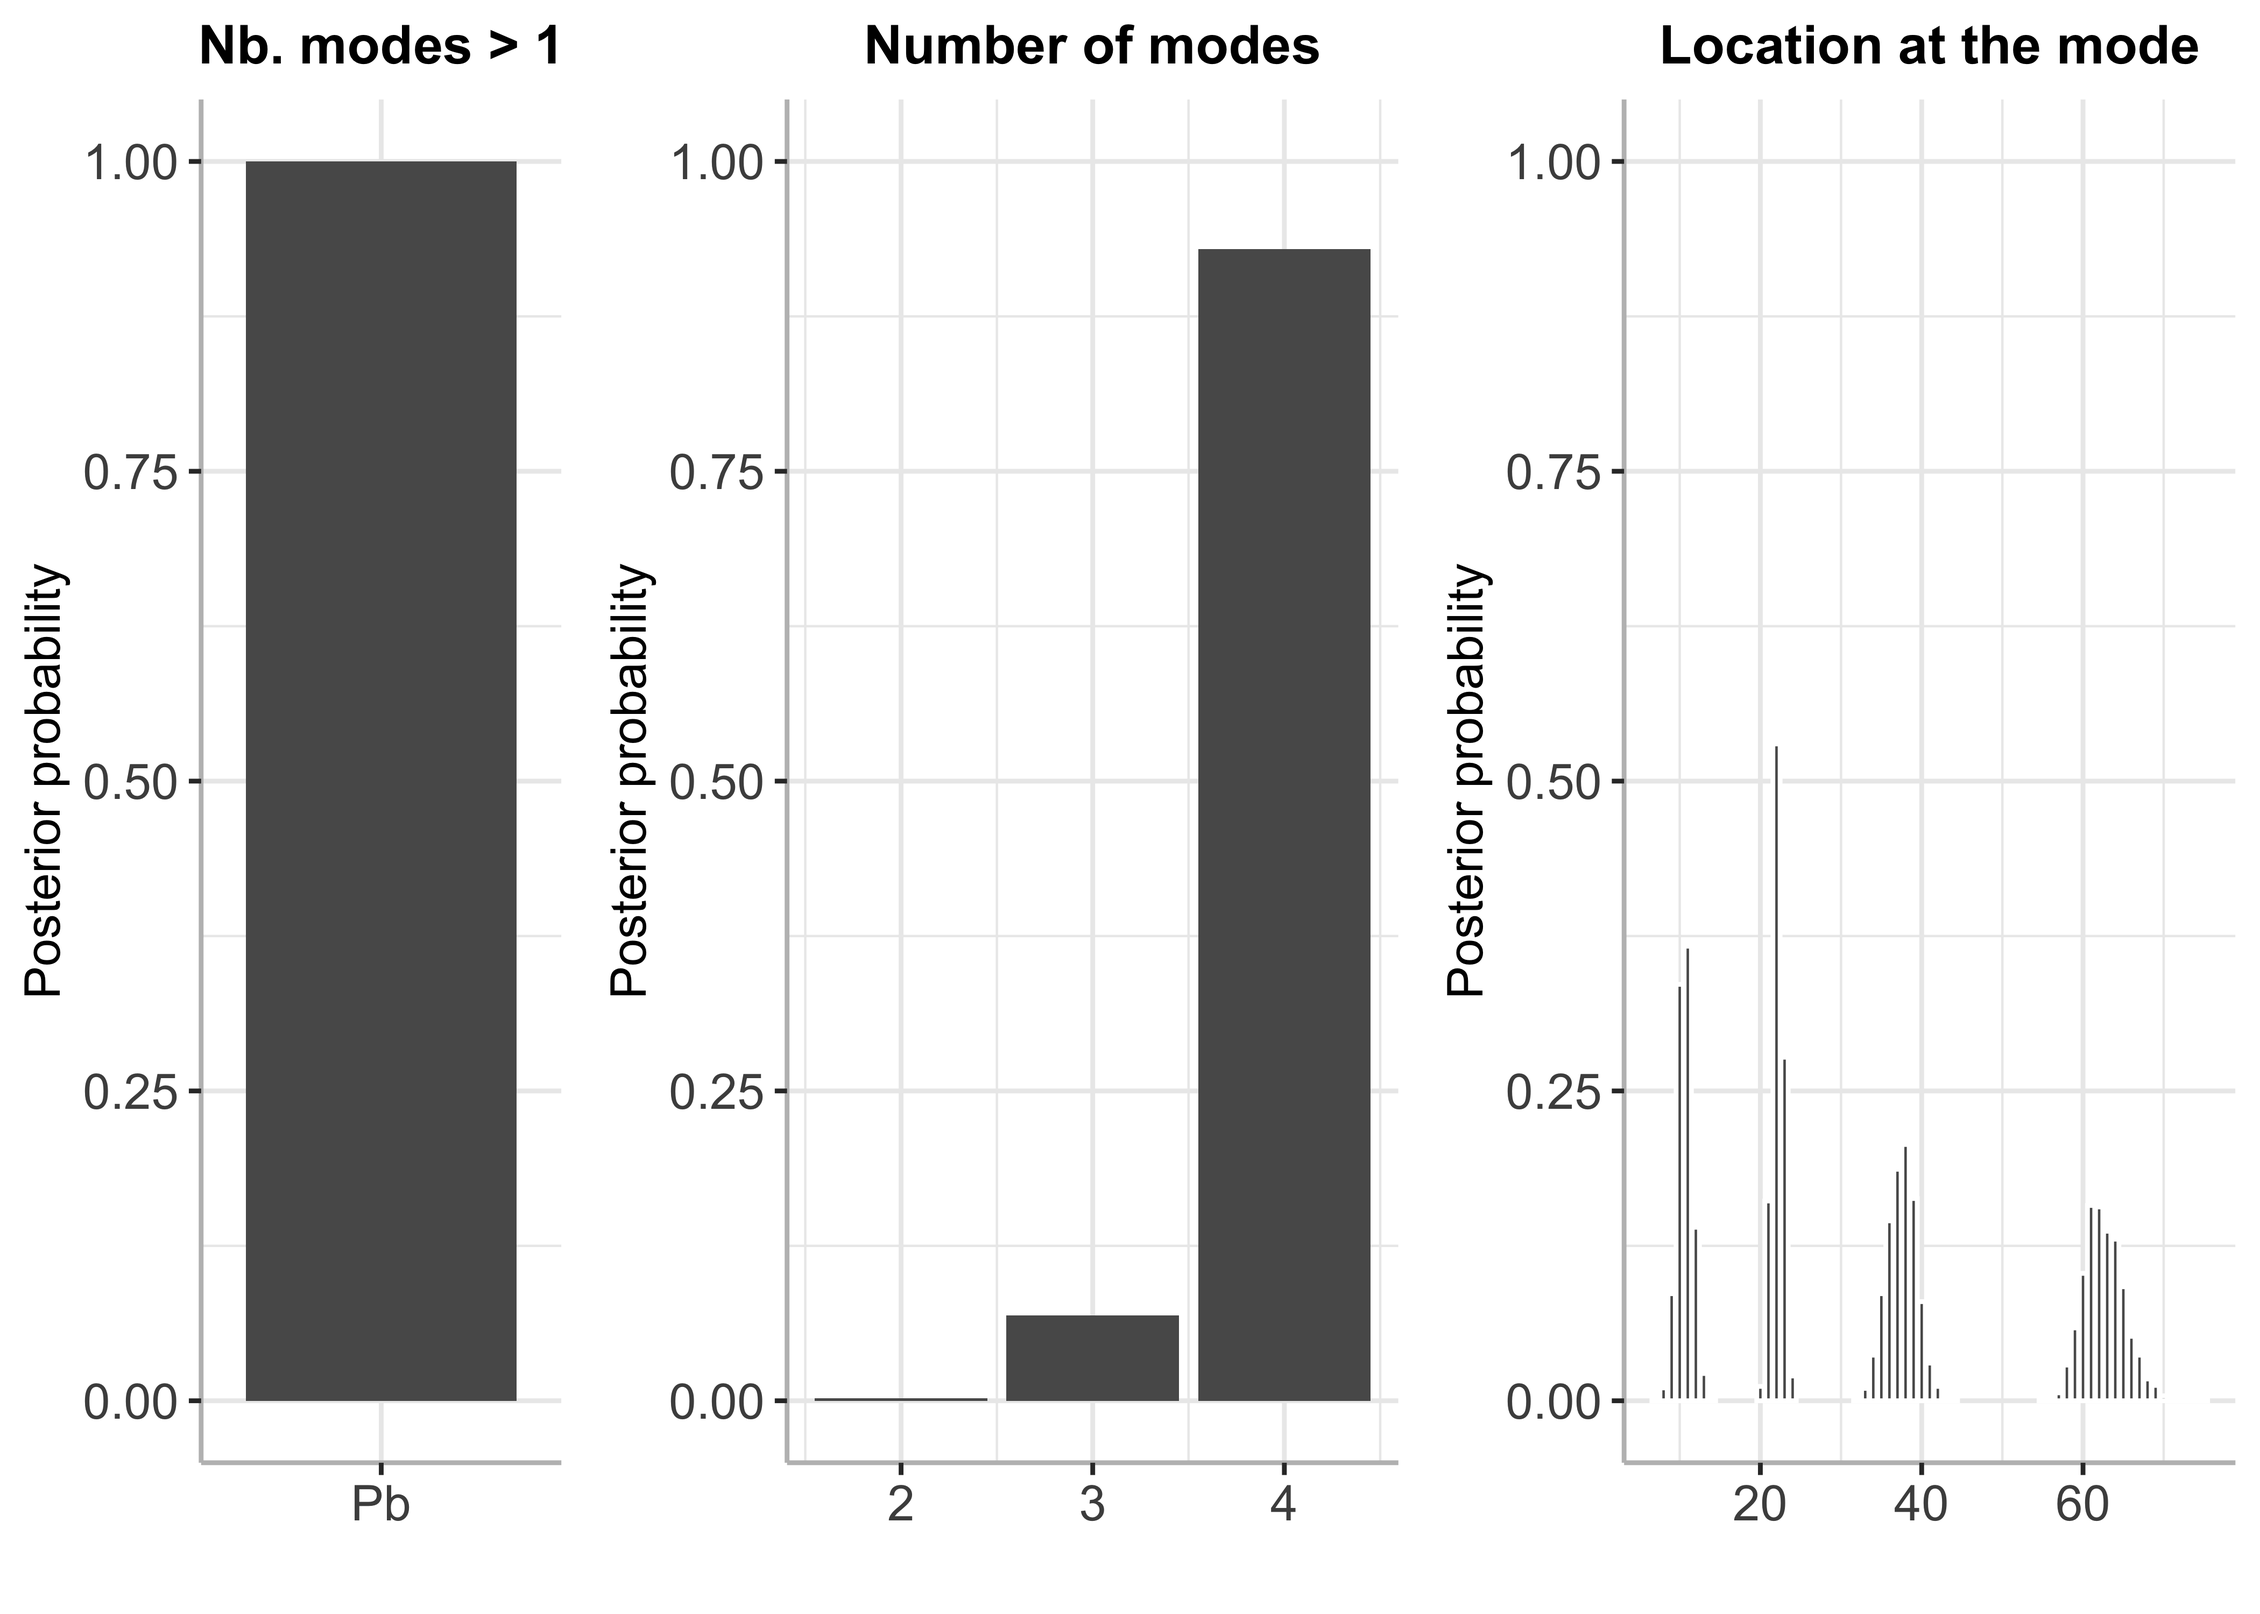
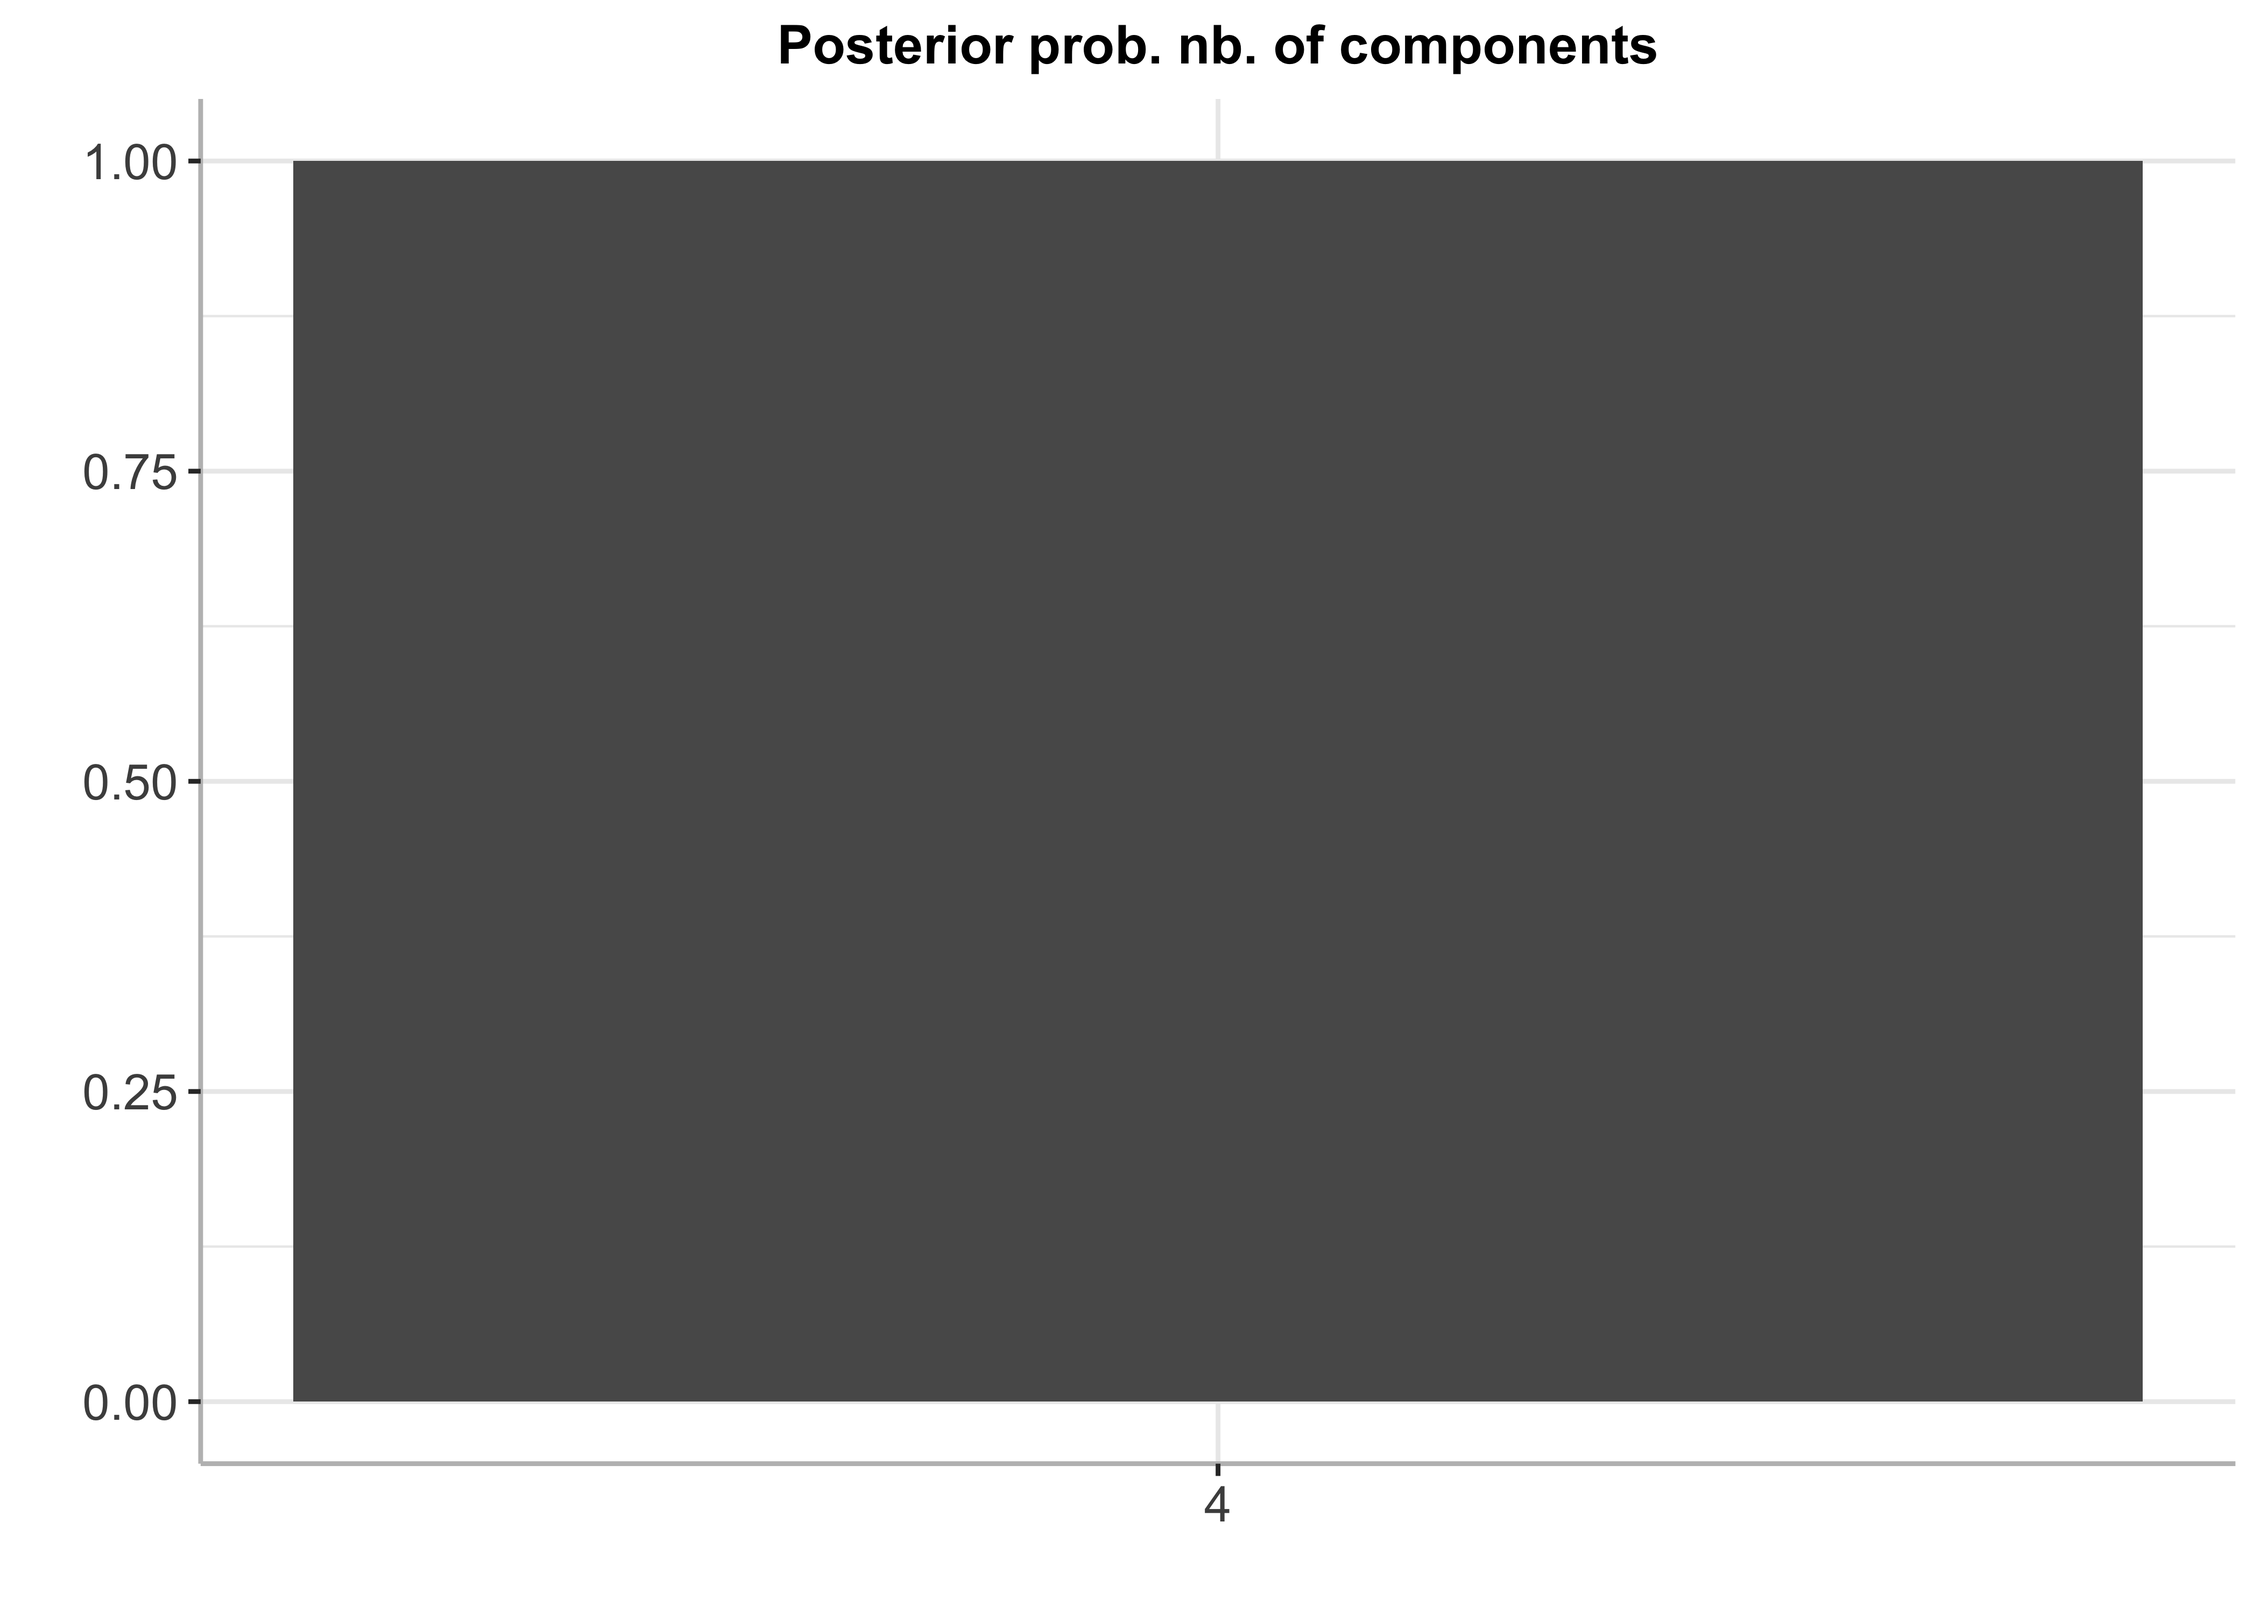
fix dscription and graphs

diff --git a/README.md b/README.md
@@ -1,25 +1,37 @@
 BayesMultiMode
 ================
 
-An R package for testing the number of modes and their locations in
-mixture distributions using Bayesian methods. The number of components
-in the mixture is unknown a priori and estimated using Sparse Finite
-Mixture (SFM) techniques in the MCMC algorithm.
+This package provides functions for estimating the number of modes and
+their associated locations in mixtures of discrete distributions using
+Bayesian methods. The testing approach works in three stages. First, a
+mixture distribution is estimated on the data using MCMC methods. The
+number of mixture components is allowed to be unknown a priori and
+estimated using a Spare Finite Mixture (SFM) algorithm. Second, a simple
+post-processing is applied to the MCMC output where a given number of
+iterations are used for burn-in and empty components are discarded.
+Third, post-processed MCMC draws are used to compute the number of modes
+as well as their locations and posterior probabilities.
 
-### Installing the development version of BayesMultiMode
+Currently the package supports a flexible mixture of shifted poisson
+distributions. The shifted poisson augments the poisson distribution
+with a location parameter. More mixtures of discrete and continuous
+distributions are in the pipeline.
+
+#### Installing BayesMultiMode
 
 ``` r
-# install.packages("devtools") #if not on the machine already
-# library(devtools)
+# Installing from github :
+# install.packages("devtools") # if devtools is not installed 
+devtools::install_github("paullabonne/BayesMultiMode")
+```
 
-# Installing from github
-# devtools::install_github("paullabonne/BayesMultiMode")
+#### Loading the package
 
-# Loading the package
+``` r
 library(BayesMultiMode)
 ```
 
-### Generating data
+#### Generating data
 
 ``` r
 set.seed(1)
@@ -33,7 +45,7 @@ length_data = 70
 simulated_data <- c(rpois(length_data*p1, lam1)+kap1, rpois(length_data*p2, lam2)+kap2)
 ```
 
-### Choosing either simulated or DNA data
+#### Choosing either simulated or DNA data
 
 ``` r
 # Select DNA data :
@@ -44,7 +56,7 @@ y = d4z4
 # y = simulated_data
 ```
 
-### Setting parameters for MCMC
+#### Setting parameters for SFM MCMC estimation
 
 ``` r
 # Number of MCMC iterations 
@@ -57,7 +69,7 @@ S = 0.5
 Jmax = 6
 ```
 
-### Estimation with SFM MCMC
+#### Estimation with SFM MCMC
 
 ``` r
 #Bayesian estimation
@@ -81,24 +93,27 @@ graphs = plots_mcmc(sfm_mcmc,S)
 graphs[[3]]
 ```
 
-<img src="README_files/figure-gfm/unnamed-chunk-5-1.png" width="70%" style="display: block; margin: auto;" />
+<img src="README_files/figure-gfm/unnamed-chunk-6-1.png" width="70%" style="display: block; margin: auto;" />
 
 ``` r
 graphs[[4]]
 ```
 
-<img src="README_files/figure-gfm/unnamed-chunk-5-2.png" width="70%" style="display: block; margin: auto;" />
+    ## Warning: Removed 41 rows containing missing values (position_stack).
+
+<img src="README_files/figure-gfm/unnamed-chunk-6-2.png" width="70%" style="display: block; margin: auto;" />
+
+#### Post-processing : burn-in and discarding empty components
 
 ``` r
-# Simple post-processing
 post_sfmmcmc = post_sfm_mcmc(sfm_mcmc,S)
 ```
 
-### Inference on modes
+#### Mode inference
 
 ``` r
 sfm_mcmc_modes = bayes_mode(post_sfmmcmc$theta_draws_slim,y)
 sfm_mcmc_modes$graphs
 ```
 
-<img src="README_files/figure-gfm/unnamed-chunk-6-1.png" width="70%" style="display: block; margin: auto;" />
+<img src="README_files/figure-gfm/unnamed-chunk-8-1.png" width="70%" style="display: block; margin: auto;" />
